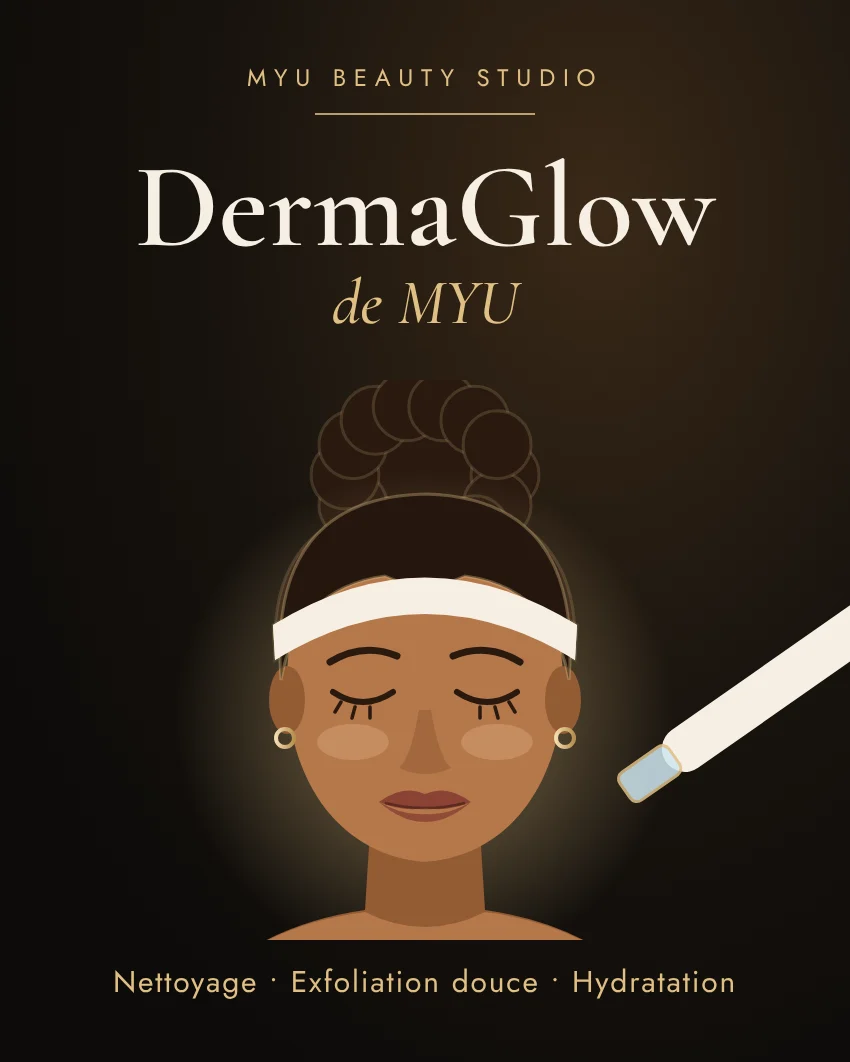
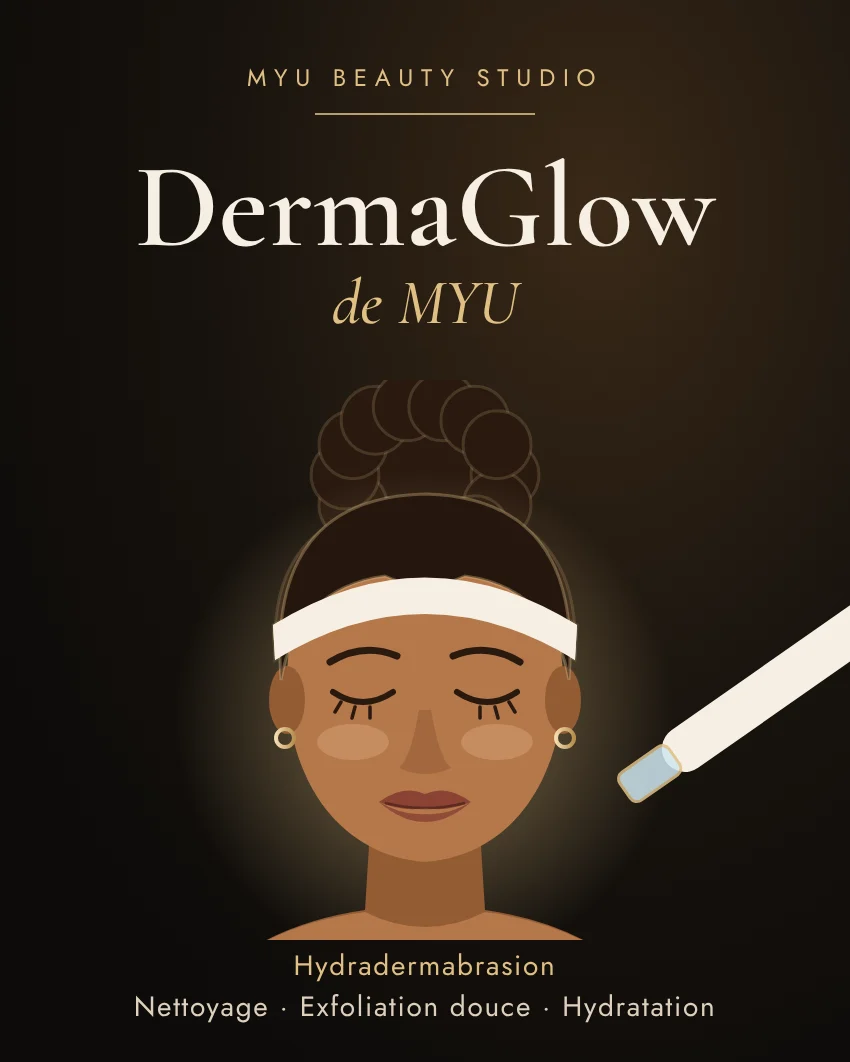
DermaGlow de MYU : préciser « soin visage par hydradermabrasion »
Claude-Session: https://claude.ai/code/session_01H7NvbBMAcYnGhLXASLuzr1

Changed region(s): [[0.3365, 0.9011, 0.6424, 0.9633], [0.6729, 0.9011, 0.8565, 0.9633], [0.1224, 0.9011, 0.3059, 0.9633]]

diff --git a/soin-visage.html b/soin-visage.html
@@ -3,8 +3,8 @@
 <head>
   <meta charset="utf-8">
   <meta name="viewport" content="width=device-width, initial-scale=1">
-  <meta name="description" content="Découvrez DermaGlow de MYU, le soin visage hydra au MYU Beauty Studio, au Lamentin.">
-  <title>DermaGlow de MYU | MYU by Miss’U</title>
+  <meta name="description" content="Découvrez DermaGlow de MYU, le soin visage par hydradermabrasion au MYU Beauty Studio, au Lamentin.">
+  <title>DermaGlow de MYU · Hydradermabrasion au Lamentin | MYU by Miss’U</title>
   <link rel="stylesheet" href="https://fonts.googleapis.com/css2?family=Cormorant+Garamond:wght@500;600&family=Jost:wght@400;500;600&display=swap">
   <style>
     :root {
@@ -43,6 +43,7 @@
     <header>
       <p class="brand">MYU by Miss’U · Le Lamentin</p>
       <h1>DermaGlow de MYU</h1>
+      <p class="brand" style="margin:-.2rem 0 .9rem">Soin visage par hydradermabrasion</p>
       <p class="price">120 € · environ 1 h</p>
       <p>Un moment pour vous, au MYU Beauty Studio. On prend le temps d’observer votre peau, d’écouter vos attentes et de vous expliquer chaque geste avant de commencer.</p>
       <p class="status">L’appareil de soin du visage est arrivé au studio.</p>

diff --git a/landing.html b/landing.html
@@ -259,6 +259,7 @@ h1,h2,.serif{font-family:'Cormorant Garamond',Georgia,serif}
     <div class="feature-image feature-eclat"><img src="/assets/myu/soins/eclat-aqua-hydro.webp" alt="" loading="lazy" decoding="async"></div>
     <div class="feature-copy">
       <strong class="feature-name">DermaGlow de MYU</strong>
+      <span class="feature-details">Hydradermabrasion</span>
       <span class="feature-price">120 €</span>
       <span class="feature-details">Renseignements <span aria-hidden="true">→</span></span>
     </div>
